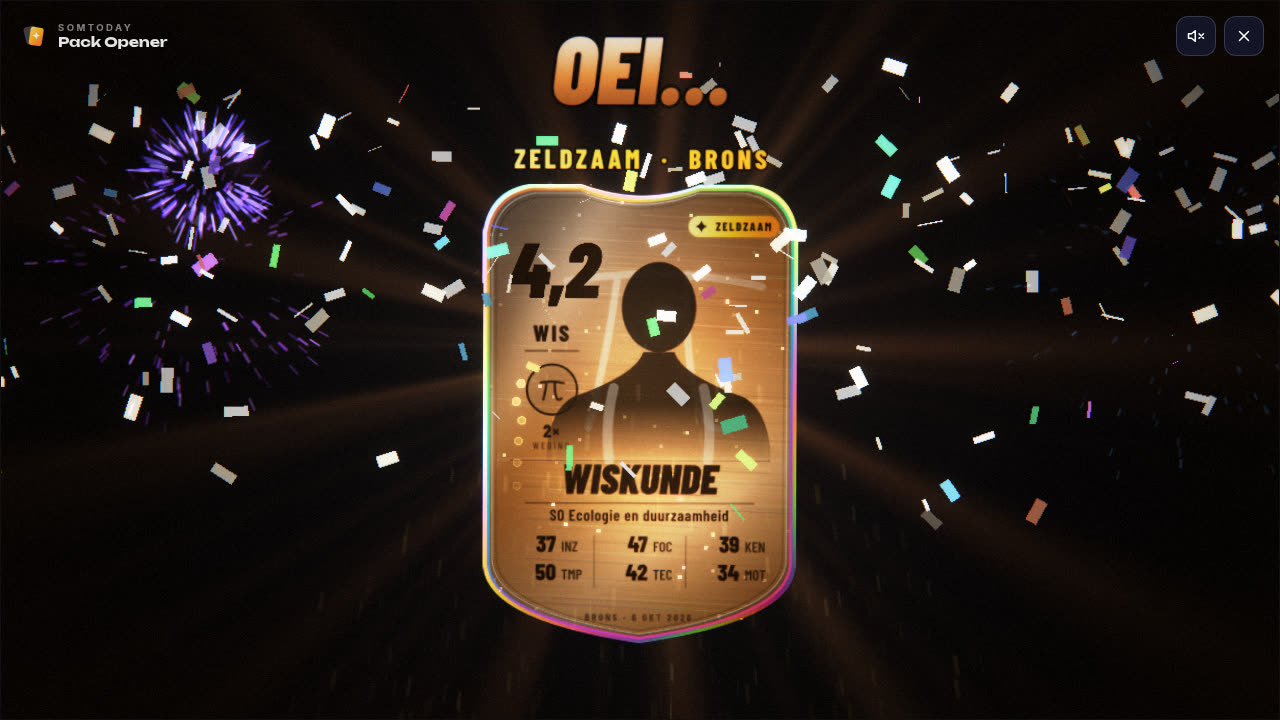
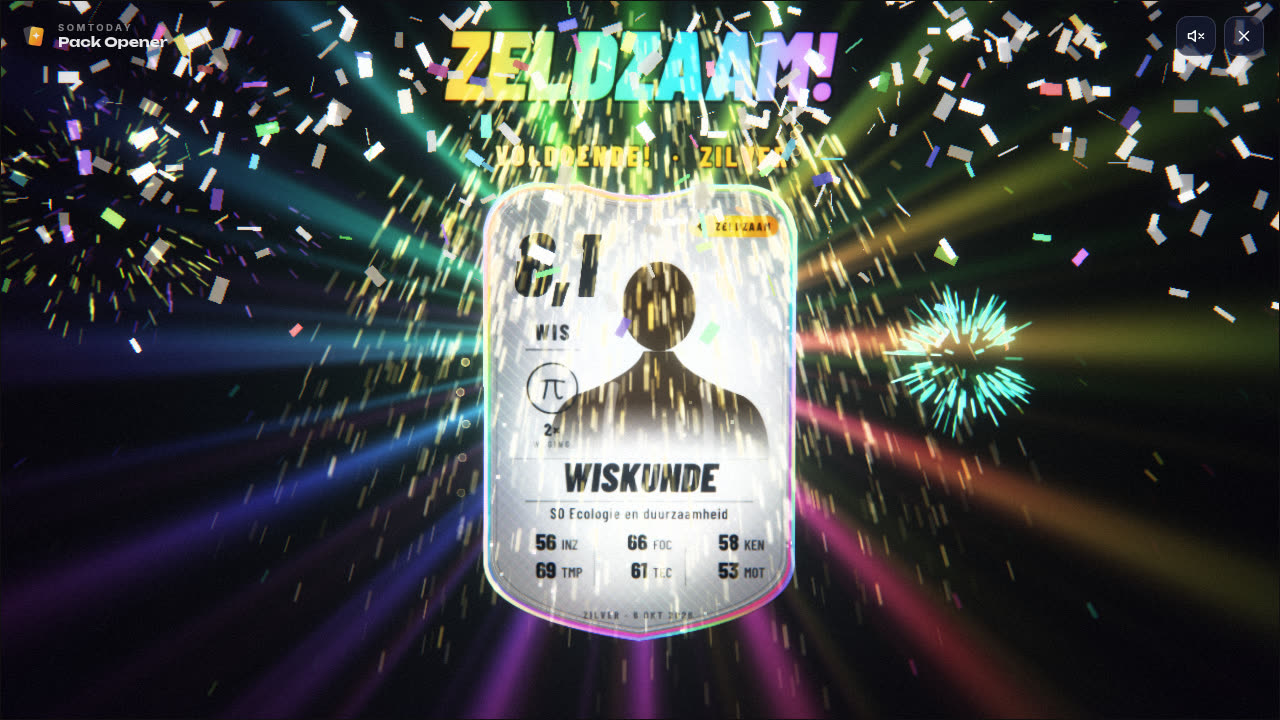
Zeldzame kaart doet veel meer: regenboogstralen en -titel, vier schokgolven, extra vuurwerk, confetti en geluid
Claude-Session: https://claude.ai/code/session_01XFAmKVj6Uncdhd91pAK3un

diff --git a/extension/motor/scene.js b/extension/motor/scene.js
@@ -137,8 +137,10 @@
       : [];
 
     // Kleur van het licht: bij een Icoon wisselt die langzaam van tint.
+    // Een zeldzame kaart krijgt vanaf het moment dat de kaart verschijnt ook het wisselende regenboog-licht.
+    const regenAan = (t) => regenboog || (zeldzaam && t >= tl.K0 - 0.05);
     function kleuren(t) {
-      if (regenboog) {
+      if (regenAan(t)) {
         SPO.hsv(t * 0.12, 0.62, 1, kl);
         SPO.hsv(t * 0.12 + 0.35, 0.8, 1, kl2);
       } else {
@@ -208,14 +210,23 @@
       }
     }
     at(K0 - 0.05, () => audio.zwiep(0.7, 0.8));
-    if (zeldzaam) at(K0 + 0.2, () => audio.glinster(0.9)); // de kaart komt glinsterend uit het licht
+    if (zeldzaam) {
+      at(E + 0.05, () => audio.glinster(0.6)); // al bij het hoogtepunt van de opening glinstert er iets
+      at(K0 + 0.2, () => audio.glinster(0.9)); // de kaart komt glinsterend uit het licht
+      at(RV + 0.9, () => audio.fanfare(0.8)); // en de fanfare komt nog een keer
+    }
     at(K0 + tl.spin * 0.78, () => audio.boem(0.18 + 0.12 * I, 1.5)); // de kaart landt
     at(RV, () => {
       audio.boem(tier === 0 ? 0.35 : 0.7 + 0.3 * I);
       audio.onthulling(0.8 + 0.2 * I);
       if (d.g >= 6) audio.gejuich(2.5 + 1.5 * I, 0.5 + 0.5 * I);
       else if (zeldzaam) audio.gejuich(3.2, 0.7);
-      if (zeldzaam) audio.fanfare(1);
+      if (zeldzaam) {
+        audio.fanfare(1);
+        audio.publiek(4.2, 0.8);
+        audio.boem(0.9, 0.8);
+        trillen([60, 40, 60, 40, 60, 40, 240]);
+      }
       if (d.seizoen === 'halloween') audio.speel('halloween-klok', { gain: 0.6, galmen: 0.3, delay: 0.15 });
       onthul();
       trillen(tier >= 3 ? [60, 40, 60, 40, 200] : tier >= 2 ? [40, 30, 80] : 30);
@@ -224,9 +235,9 @@
     // vuurwerk vanaf een 9 (bij een zeldzame kaart altijd)
     const vuurwerk = [];
     if (d.g >= 9 || zeldzaam) {
-      const aantal = tier === 4 ? 14 : zeldzaam ? 9 : 5;
+      const aantal = zeldzaam ? 16 : tier === 4 ? 14 : 5;
       for (let i = 0; i < aantal; i++) {
-        const tt = RV + 0.5 + i * (tier === 4 ? 0.34 : 0.45);
+        const tt = RV + 0.5 + i * (zeldzaam ? 0.27 : tier === 4 ? 0.34 : 0.45);
         vuurwerk.push({ t: tt, x: (Math.random() - 0.5) * 0.9, y: 0.0 + Math.random() * 0.34, h: Math.random() });
         at(tt + 0.55, () => audio.vuurwerk());
       }
@@ -281,7 +292,18 @@
     golf(RV, 1.2, 0.8, 0.03);
     golf(RV + 0.1, 1.6, 0.6, 0.03);
     if (tier >= 2 || zeldzaam) golf(RV + 0.22, 2.0, 0.5, 0.03);
-    if (zeldzaam) flits(K0 + 0.2, 0.3, 0.12);
+    if (zeldzaam) {
+      // een glinstering als de kaart verschijnt, en daarna nog vier klappen na de onthulling
+      flits(E + 0.05, 0.4, 0.15);
+      golf(E + 0.05, 1.3, 0.6, op ? 0 : lekP);
+      flits(K0 + 0.2, 0.45, 0.14);
+      golf(K0 + 0.2, 1.4, 0.7, 0.03);
+      for (let i = 0; i < 4; i++) {
+        golf(RV + 0.35 + i * 0.3, 1.5 + 0.2 * i, 0.75, 0.03);
+        schok(RV + 0.45 + i * 0.3, 0.03, 0.25);
+        flits(RV + 0.45 + i * 0.3, 0.3, 0.1);
+      }
+    }
     if (tier === 4 || zeldzaam) {
       flits(RV + 0.35, 0.35, 0.3);
       golf(RV + 0.35, 1.6, 0.8, 0.03);
@@ -315,8 +337,12 @@
     // de onthulling
     const rvVonken = e({ mode: 0, t0: RV, delay: 0.14, life: 2.2, n: Math.round(300 + 1500 * I), org: [0, 0.02], angle: 0, spread: TWEE_PI, spd: [0.3, 2.3], grav: [0, -0.35], drag: 1.1, size: [0.002, 0.007], col1: kl, col2: kl2, alpha: 0.75, regen: regenboog || zeldzaam ? 1 : 0, seed: 8 });
     if (zeldzaam) {
-      // een gouden regen van vonken van boven, bovenop de gewone onthulling
-      e({ mode: 0, t0: RV, delay: 0.5, life: 3.2, n: 700, org: [0, 0.62], angle: -Math.PI / 2, spread: 1.4, spd: [0.15, 0.7], grav: [0, -0.28], drag: 0.7, size: [0.002, 0.006], col1: [1, 0.82, 0.3], col2: [1, 0.97, 0.8], alpha: 0.9, seed: 17 });
+      // een gouden regen van vonken van boven, bovenop de gewone onthulling, en een gouden uitbarsting als de kaart verschijnt
+      e({ mode: 0, t0: RV, delay: 1.2, life: 3.6, n: 1500, org: [0, 0.62], angle: -Math.PI / 2, spread: 1.6, spd: [0.15, 0.8], grav: [0, -0.28], drag: 0.7, size: [0.002, 0.0065], col1: [1, 0.82, 0.3], col2: [1, 0.97, 0.8], alpha: 0.9, seed: 17 });
+      e({ mode: 0, t0: K0, delay: 0.2, life: 1.6, n: 900, org: [0, 0.01], angle: 0, spread: TWEE_PI, spd: [0.3, 1.6], grav: [0, -0.1], drag: 1.4, size: [0.002, 0.006], col1: [1, 0.85, 0.35], col2: [1, 1, 0.9], alpha: 0.9, seed: 18 });
+      e({ mode: 0, t0: RV, delay: 0.5, life: 3.2, n: 900, org: [0, 0.02], angle: 0, spread: TWEE_PI, spd: [0.5, 2.6], grav: [0, -0.3], drag: 1.0, size: [0.002, 0.007], col1: kl, col2: kl2, alpha: 0.8, regen: 1, seed: 19 });
+      // een tweede ronde confetti, later
+      e({ mode: 2, t0: RV + 0.1, life: 4.6, delay: 2.2, n: 420, org: [0, 0.62], angle: -Math.PI / 2, spread: 0.9, spd: [0.1, 0.5], grav: [0, -0.09], drag: 0.45, size: [0.008, 0.017], alpha: 1, blend: 'alpha', seed: 21 });
     }
     if (tier === 0 && !zeldzaam) {
       e({ mode: 3, t0: RV, life: 5, delay: 0.2, n: 160, alpha: 0.8, seed: 9, blend: 'alpha' });
@@ -432,7 +458,7 @@
       p.f1('uRot', rot);
       p.f1('uCount', aantal);
       p.f1('uHaze', haze);
-      p.f1('uRegen', regenboog ? 1 : 0);
+      p.f1('uRegen', regenAan(t) ? 1 : 0);
       p.f1('uAlpha', alpha);
       p.f1('uDonker', donker);
       p.v3('uCol', k1);
@@ -452,7 +478,7 @@
       p.f1('uSter', ster);
       p.f1('uRot', rot);
       p.f1('uCount', 6 + L.stralen * 0.9);
-      p.f1('uRegen', regenboog ? 1 : 0);
+      p.f1('uRegen', regenAan(t) ? 1 : 0);
       p.f1('uTime', t);
       p.v3('uCol', k1);
       motor.mengen('optel');
@@ -957,6 +983,7 @@
           if (t >= E) rad = Math.max(rad, 0.25 * Math.exp(-(t - E) / 0.25));
         }
         if (t >= RV) rad = Math.max(rad, 0.22 * Math.exp(-(t - RV) / 0.3));
+        if (zeldzaam && t >= RV + 0.35) rad = Math.max(rad, 0.16 * Math.exp(-((t - RV - 0.35) % 0.3) / 0.1) * (t < RV + 1.5 ? 1 : 0));
         if (t > K0 - 0.3 && t < K0) rad = Math.max(rad, 0.3 * ramp(t, K0 - 0.3, K0));
       }
       p.f3('uRadial', 0.5, 0.5, rad * (reduceer ? 0.2 : 1));
@@ -964,6 +991,7 @@
       if (!rustig) {
         zoom += 0.035 * sm(t, K0, RV) * (t < RV ? 1 : 0);
         if (t >= RV) zoom += 0.06 * Math.exp(-(t - RV) / 0.18);
+        if (zeldzaam && t >= RV + 0.35 && t < RV + 1.5) zoom += 0.03 * Math.exp(-((t - RV - 0.35) % 0.3) / 0.1); // vier kloppen na de onthulling
         if (pk) {
           zoom *= pk.zoom;
         } else {

diff --git a/extension/motor/art.js b/extension/motor/art.js
@@ -1399,22 +1399,29 @@
     c.textAlign = 'center';
     c.textBaseline = 'alphabetic';
     const T = data.T;
-    const txt = T.label.toUpperCase();
+    const txt = data.zeldzaam ? 'ZELDZAAM!' : T.label.toUpperCase();
     const fs = pasFont(c, txt, 'italic 900', F_SPORT, 215, 90, 1380);
     c.font = `italic 900 ${fs}px ${F_SPORT}`;
     c.lineJoin = 'round';
     c.lineWidth = 14;
     c.strokeStyle = 'rgba(0,0,0,.5)';
     c.strokeText(txt, 750, 12 + fs * 0.86);
-    const g = c.createLinearGradient(0, 12, 0, 12 + fs);
-    g.addColorStop(0, '#ffffff');
-    g.addColorStop(0.55, rgba(T.kleur, 1));
-    g.addColorStop(1, rgba(T.kleur2, 1));
+    let g;
+    if (data.zeldzaam) {
+      // een zeldzame kaart heeft een regenboogtitel, en je cijfer-niveau staat eronder
+      g = c.createLinearGradient(150, 0, 1350, 0);
+      ['#ff6b6b', '#ffd24a', '#6bff9e', '#38e1ff', '#b07bff', '#ff5fd2'].forEach((k, i, l) => g.addColorStop(i / (l.length - 1), k));
+    } else {
+      g = c.createLinearGradient(0, 12, 0, 12 + fs);
+      g.addColorStop(0, '#ffffff');
+      g.addColorStop(0.55, rgba(T.kleur, 1));
+      g.addColorStop(1, rgba(T.kleur2, 1));
+    }
     c.fillStyle = g;
     c.fillText(txt, 750, 12 + fs * 0.86);
     c.font = `800 60px ${F_SPORT}`;
     spatie(c, 8);
-    const regel = data.zeldzaam ? `ZELDZAAM  ·  ${T.naam.toUpperCase()}` : `${T.naam.toUpperCase()}  ·  ${T.sub.toUpperCase()}`;
+    const regel = data.zeldzaam ? `${T.label.toUpperCase()}  ·  ${T.naam.toUpperCase()}` : `${T.naam.toUpperCase()}  ·  ${T.sub.toUpperCase()}`;
     c.lineWidth = 9;
     c.strokeStyle = 'rgba(0,0,0,.55)';
     c.strokeText(regel, 750 + 4, 342);

diff --git a/website/index.html b/website/index.html
@@ -64,7 +64,7 @@
   <h2>Soms is een kaart zeldzaam</h2>
   <p class="intro">Eén op de tien kaarten is zeldzaam, ook bij een onvoldoende: een regenboogrand, extra licht, vuurwerk en een fanfare. Rond Halloween krijgt het pakje een spookachtig uiterlijk, met eigen geluiden. Beide staan standaard aan en zijn uit te zetten in de popup.</p>
   <div class="paar">
-    <figure><img src="img/zeldzaam.jpg" width="1280" height="720" alt="Een zeldzame brons kaart met een 4,2, een regenboogrand en vuurwerk" loading="lazy"><figcaption>Zeldzame kaart</figcaption></figure>
+    <figure><img src="img/zeldzaam.jpg" width="1280" height="720" alt="Een zeldzame zilveren kaart met een regenboogtitel, regenboogstralen en confetti" loading="lazy"><figcaption>Zeldzame kaart</figcaption></figure>
     <figure><img src="img/halloween.jpg" width="1280" height="720" alt="Het Halloween-pakje: paarse folie met vleermuizen en een pompoen" loading="lazy"><figcaption>Halloween-pakje</figcaption></figure>
   </div>
 </section>

diff --git a/CHANGELOG.md b/CHANGELOG.md
@@ -2,7 +2,7 @@
 
 ## v1.2.0
 
-- **Zeldzame kaarten:** één op de tien kaarten is zeldzaam, bij elke opening en bij elk cijfer: een regenboogrand en een label op de kaart, extra licht en glans, vuurwerk en confetti (ook bij een onvoldoende), een glinstering als de kaart verschijnt en een fanfare bij de onthulling. In de galerij herken je ze aan hetzelfde label. Uit te zetten in de popup (*Zeldzame kaarten*); bij *Handmatig proberen* kun je er zelf een uitproberen.
+- **Zeldzame kaarten:** één op de tien kaarten is zeldzaam, bij elke opening en bij elk cijfer: een regenboogrand en een label op de kaart, extra licht en glans, vuurwerk en confetti (ook bij een onvoldoende), een glinstering al bij het hoogtepunt, regenboog-licht, een regenboogtitel "ZELDZAAM!", vier schokgolven na de onthulling, twee rondes confetti, een gouden regen en een dubbele fanfare met publiek. In de galerij herken je ze aan hetzelfde label. Uit te zetten in de popup (*Zeldzame kaarten*); bij *Handmatig proberen* kun je er zelf een uitproberen.
 - **Halloween-pakje:** van 1 oktober tot en met 2 november krijgt het pakje een spookachtig uiterlijk (paarse folie, vleermuizen, spinnenweb en een gloeiende pompoen) en eigen geluiden: kraken tijdens het opladen, een donderslag bij het scheuren, een huilend geluid in de verte en een kerkklok bij de onthulling. Uit te zetten in de popup (*Seizoensthema's*). De vier nieuwe geluiden zijn gesynthetiseerd, geen opnames.
 - **Gemiddelden ook afdekken:** zolang je een nieuw cijfer nog niet hebt geopend, worden *Vakgemiddelden* en *Cijferoverzicht* vervangen door een melding, want daar zie je je cijfer of gemiddelde al. *Naar mijn nieuwe cijfers* brengt je terug naar de lijst, *Toch tonen* laat het overzicht alsnog zien. Uit te zetten in de popup.
 - **Cijfercalculator:** wat moet je halen voor een bepaald gemiddelde, met de weging van de volgende toets. Je kunt uitgaan van je galerij of zelf je gemiddelde en weging invullen.

diff --git a/README.md b/README.md
@@ -31,7 +31,7 @@ en je eigen kaart voor dat vak.
 - **Delen en je naam:** een plaatje van je kaart om te delen (met je naam, als Somtoday die laat zien; de naam wordt nergens opgeslagen).
 - **Vakkaarten** in de galerij en **Kaart ontwerpen** (kleurthema's en randen).
 - **Vrienden (opt-in):** kies per vriend wat hij of zij van je cijfers ziet. Alles wordt op je eigen computer versleuteld. De server staat in [`server/`](server).
-- **Zeldzame kaarten:** één op de tien kaarten is zeldzaam: een regenboogrand, een label, extra licht, vuurwerk en een fanfare, ook bij een
+- **Zeldzame kaarten:** één op de tien kaarten is zeldzaam: een regenboogrand en regenboogtitel, regenboogstralen, veel vuurwerk en confetti en een fanfare, ook bij een
   laag cijfer. Uit te zetten in de popup; bij *Handmatig proberen* kun je er zelf een uitproberen.
 - **Seizoensthema's:** rond Halloween (1 oktober t/m 2 november) krijgt het pakje een spookachtig uiterlijk met vleermuizen, een pompoen en eigen geluiden.
   Uit te zetten in de popup.
